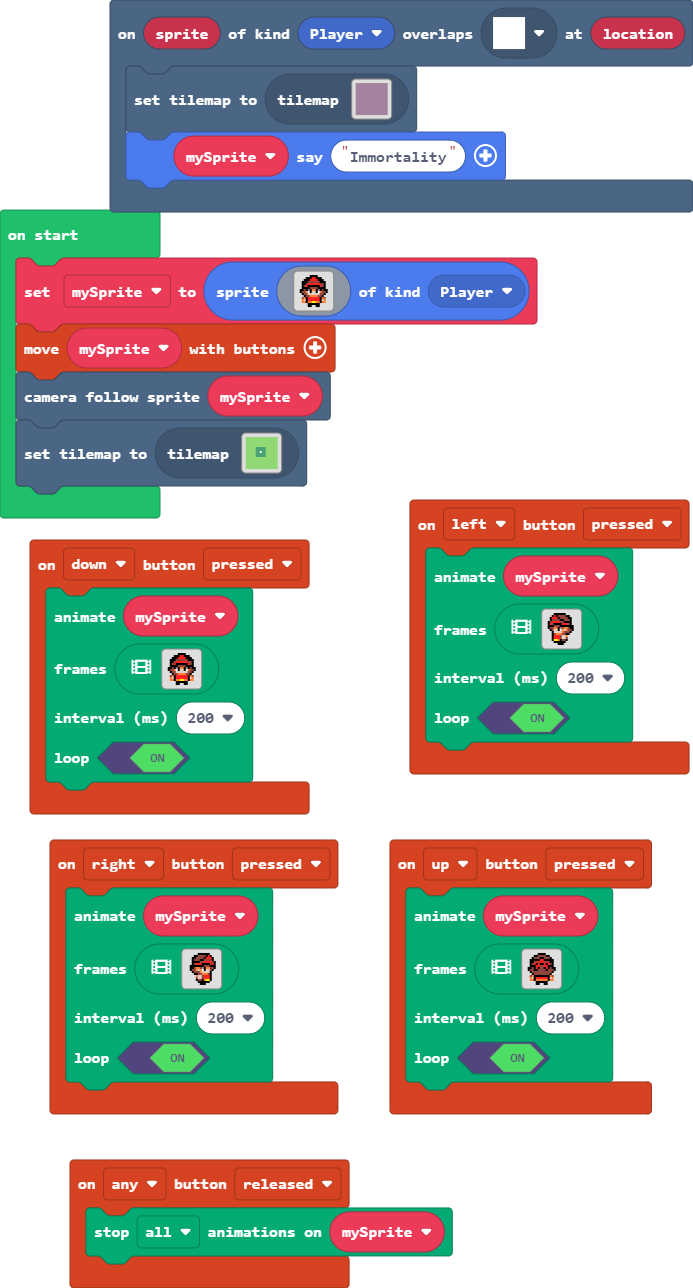
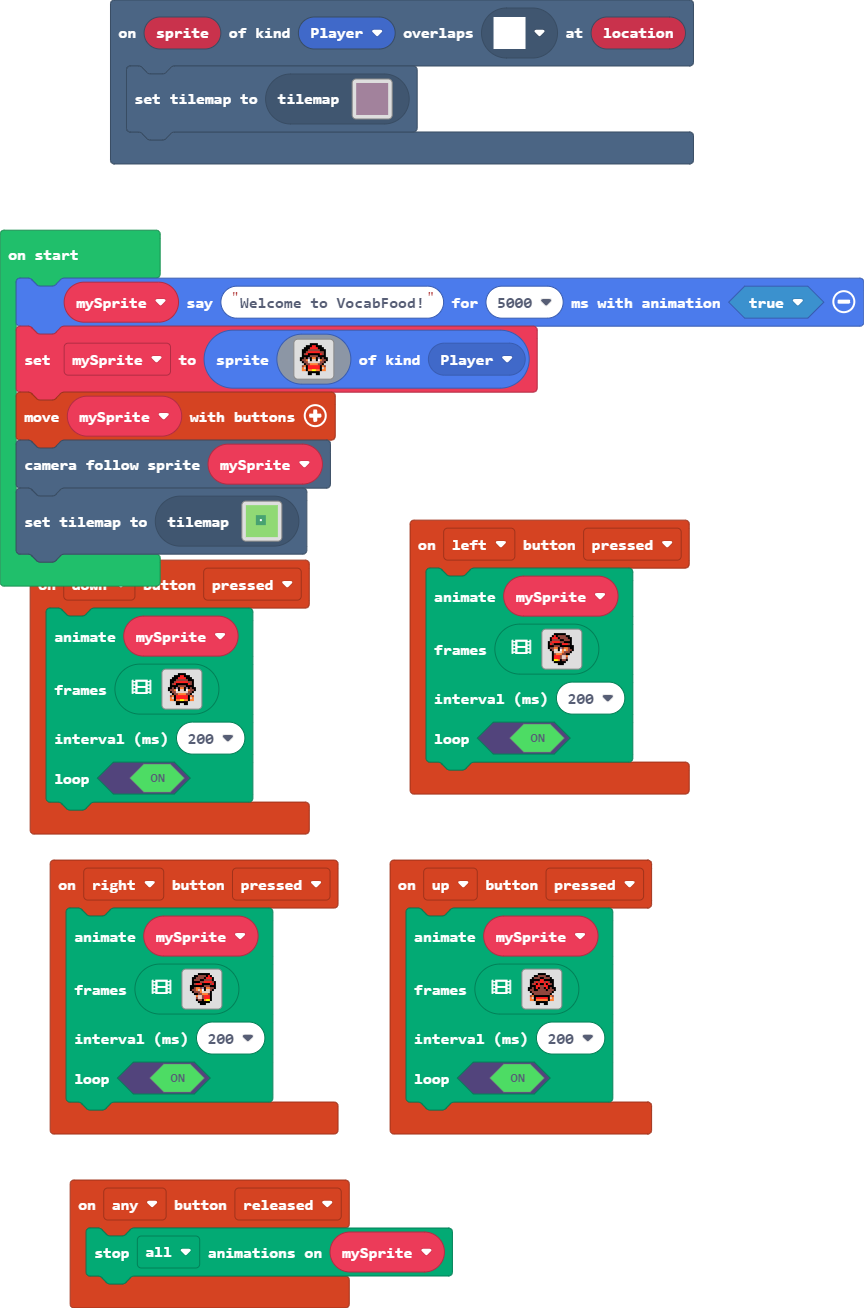
Update main.blocks, main.ts

diff --git a/main.ts b/main.ts
@@ -79,7 +79,6 @@ controller.up.onEvent(ControllerButtonEvent.Pressed, function () {
 })
 scene.onOverlapTile(SpriteKind.Player, assets.tile`myTile`, function (sprite, location) {
     tiles.setCurrentTilemap(tilemap`level4`)
-    mySprite.sayText("Immortality")
 })
 controller.anyButton.onEvent(ControllerButtonEvent.Released, function () {
     animation.stopAnimation(animation.AnimationTypes.All, mySprite)
@@ -313,6 +312,7 @@ controller.down.onEvent(ControllerButtonEvent.Pressed, function () {
     )
 })
 let mySprite: Sprite = null
+mySprite.sayText("Welcome to VocabFood!", 5000, true)
 mySprite = sprites.create(img`
     . . . . . . f f f f . . . . . . 
     . . . . f f f 2 2 f f f . . . . 
